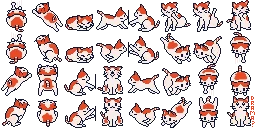
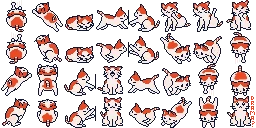
use this spritesheet https://rdrama.net/h/marsey/post/166549/marsey-cat-sprite-sheet-for-the/4075145#context

diff --git a/files/assets/css/main.css b/files/assets/css/main.css
@@ -7311,7 +7311,7 @@ button, .btn {
 	height: 32px;
 	position: fixed;
 	pointer-events: none;
-	background-image: url('/i/marseko.webp?x=1');
+	background-image: url('/i/marseko.webp?x=2');
 	image-rendering: pixelated;
 	background-position: -64px -32px;
 }
